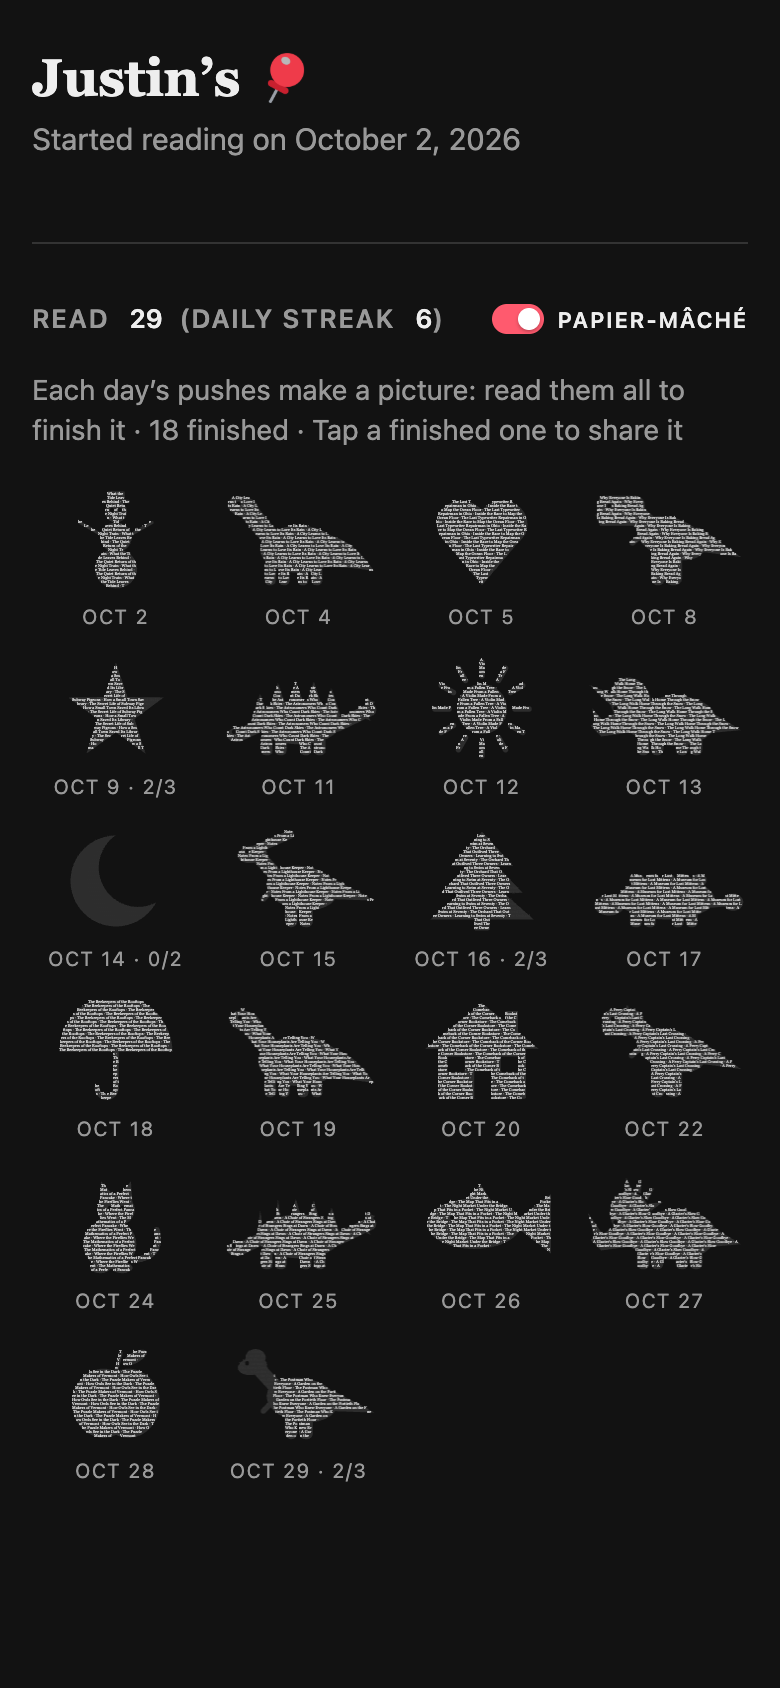
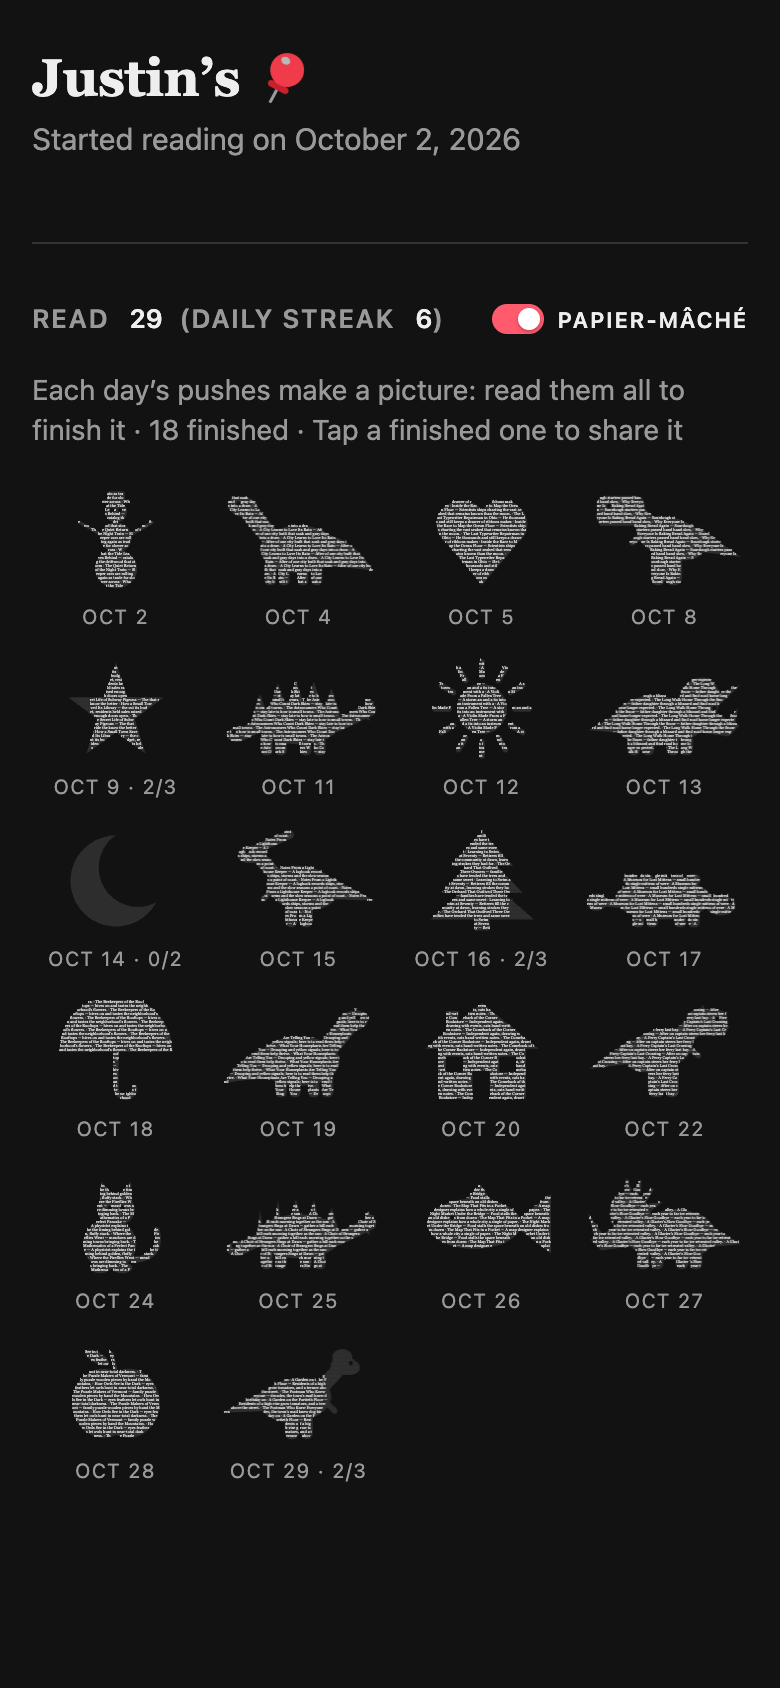
Daily pictures: text from each read article's title plus seeded abstract words, start and facing seeded by reader and day (unique per day and reader); pin indents a shape that starts at the left edge; docs show the snowman and a Brontosaurus

diff --git a/src/pushpin/cards.py b/src/pushpin/cards.py
@@ -610,7 +610,7 @@ function layout(w, h, words, flip, kind, fs) {
   const mask = mc.getImageData(0, 0, w, h).data, inside = (x, y) => mask[(y * w + x) * 4 + 3] > 127;
   const lh = Math.round(fs * 1.1);
   mc.font = fs + 'px Georgia, "Times New Roman", serif';
-  const text = words.join(' · ') + ' · ', widths = {};
+  const text = typeof words === 'string' ? words : words.join(' · ') + ' · ', widths = {};  // a day's text, or a list to join
   const width = ch => widths[ch] ??= mc.measureText(ch).width;
   const glyphs = []; let i = 0;
   for (let y = Math.round(lh / 2); y < h; y += lh) {
@@ -674,9 +674,9 @@ function draw(canvas, words, built, flip, animate, kind, delay) {
 // on a character grid, with spaces around it and a pin in the top left corner. It lines up in a
 // monospace font; in a chat's proportional one it leans and wobbles, which is part of the charm.
 const COLS = 32;
-function textDino(titles, kind) {
+function textDino(text, kind, flip) {
   const w = 400, h = 256, m = document.createElement('canvas'); m.width = w; m.height = h;
-  const mc = m.getContext('2d'); dino(mc, w, h, false, kind);
+  const mc = m.getContext('2d'); dino(mc, w, h, flip, kind);
   const a = mc.getImageData(0, 0, w, h).data, on = (x, y) => a[(y * w + x) * 4 + 3] > 127;
   let x0 = w, x1 = 0, y0 = h, y1 = 0;  // crop to the dinosaur
   for (let y = 0; y < h; y++) for (let x = 0; x < w; x++) if (on(x, y)) {
@@ -689,7 +689,7 @@ function textDino(titles, kind) {
       for (let x = Math.floor(x0 + c * cw); x < Math.min(x1 + 1, x0 + (c + 1) * cw); x++) { t++; if (on(x, y)) n++; }
     return t && n / t > 0.3;
   };
-  const letters = titles.join('·').replace(/\\s+/g, '') + '·';  // no spaces inside the body, so it has no holes
+  const letters = text.replace(/\\s+/g, '');  // no spaces inside the shape, so it has no holes
   const lines = []; let i = 0;
   for (let r = 0; r < rows; r++) {
     let line = '';
@@ -699,11 +699,12 @@ function textDino(titles, kind) {
   while (lines.length && !lines[0]) lines.shift();
   while (lines.length && !lines[lines.length - 1]) lines.pop();
   // the pin in the top left corner, on the dinosaur's top line: it takes about two columns
-  lines[0] = '📌' + (lines[0].startsWith('  ') ? lines[0].slice(2) : ' ' + lines[0]);
+  if (!lines[0].startsWith('  ')) for (let i = 0; i < lines.length; i++) lines[i] = '   ' + lines[i];  // no room: shift it all over
+  lines[0] = '📌' + lines[0].slice(2);
   return lines.join('\\n');
 }
 let sheet = null;
-function share(titles, kind) {
+function share(text_, kind, flip) {
   if (!sheet) {
     sheet = document.createElement('dialog'); sheet.className = 'sharecard';
     sheet.innerHTML = '<button type="button" class="x" aria-label="Close">×</button><pre></pre>'
@@ -712,7 +713,7 @@ function share(titles, kind) {
     sheet.addEventListener('click', ev => { if (ev.target === sheet) sheet.close(); });  // the backdrop
     document.body.append(sheet);
   }
-  const text = textDino(titles, kind), pre = sheet.querySelector('pre'), go = sheet.querySelector('.go'), copy = sheet.querySelector('.copy');
+  const text = textDino(text_, kind, flip), pre = sheet.querySelector('pre'), go = sheet.querySelector('.go'), copy = sheet.querySelector('.copy');
   pre.textContent = text; pre.setAttribute('aria-label', 'A ' + kind.name + ' drawn in text');
   go.hidden = !navigator.share;
   go.onclick = () => navigator.share({text}).catch(() => null);
@@ -722,11 +723,26 @@ function share(titles, kind) {
 }
 // ---- end share card ----
 const kindOf = herd(data.dataset.seed || '');
+// A day's text: every read title, each followed by some of its abstract's words (picked at
+// random, kept in order), starting at a random point, and which way the shape faces. The randomness
+// is seeded by the reader and the day, so a picture is the same each time it's drawn, no two days
+// match, and two readers who read the same articles the same day still get different pictures.
+function dayText(d) {
+  const r = rng((data.dataset.seed || 'demo') + ':' + d.day);
+  const flip = r() < 0.5;
+  if (!d.titles.length) return {text: '·', flip};
+  const parts = d.titles.map((t, i) => {
+    const kept = ((d.abstracts || [])[i] || '').split(/\\s+/).filter(w => w && r() < 0.55);
+    return kept.length ? t + ' — ' + kept.join(' ') : t;
+  });
+  const all = parts.join(' · ') + ' · ', at = Math.floor(r() * all.length);
+  return {text: all.slice(at) + all.slice(0, at), flip};
+}
 const MONTHS = ['Jan', 'Feb', 'Mar', 'Apr', 'May', 'Jun', 'Jul', 'Aug', 'Sep', 'Oct', 'Nov', 'Dec'];
 function build(animate) {
   box.innerHTML = '';
   days.forEach((d, k) => {  // one picture a day, oldest first, made of that day's read headlines
-    const kind = kindOf(k), done = d.sent > 0 && d.titles.length >= d.sent, built = d.sent ? Math.min(1, d.titles.length / d.sent) : 0;
+    const kind = kindOf(k), day = dayText(d), done = d.sent > 0 && d.titles.length >= d.sent, built = d.sent ? Math.min(1, d.titles.length / d.sent) : 0;
     const when = MONTHS[+d.day.slice(5, 7) - 1] + ' ' + +d.day.slice(8, 10);
     const fig = document.createElement('figure'), canvas = document.createElement('canvas'), cap = document.createElement('figcaption');
     canvas.setAttribute('role', 'img');
@@ -737,7 +753,7 @@ function build(animate) {
       const tap = document.createElement('button');
       tap.type = 'button'; tap.className = 'dino'; tap.title = kind.name + ' · ' + when;
       tap.setAttribute('aria-label', 'Share the ' + kind.name + ' for ' + when);
-      tap.append(canvas); tap.addEventListener('click', () => share(d.titles, kind));
+      tap.append(canvas); tap.addEventListener('click', () => share(day.text, kind, day.flip));
       fig.append(tap);
     } else {
       const still = document.createElement('div');  // not finished: nothing to share yet
@@ -745,7 +761,7 @@ function build(animate) {
       still.append(canvas); fig.append(still);
     }
     fig.append(cap); box.append(fig);
-    draw(canvas, d.titles.length ? d.titles : ['·'], built, k % 2 === 1, animate, kind, animate ? Math.min(k, 40) * 45 : 0);
+    draw(canvas, day.text, built, day.flip, animate, kind, animate ? Math.min(k, 40) * 45 : 0);
   });
 }
 function show(animate) {
@@ -780,10 +796,11 @@ def papier_days(read: list[dict]) -> list[dict]:
     """Days from the reads alone, when the pushes sent aren't known: every day with reads, finished."""
     out: dict[str, dict] = {}
     for a in sorted(read, key=lambda a: a["read_at"] or ""):
-        d = out.setdefault(a["read_at"][:10], {"day": a["read_at"][:10], "sent": 0, "read": 0, "titles": []})
+        d = out.setdefault(a["read_at"][:10], {"day": a["read_at"][:10], "sent": 0, "read": 0, "titles": [], "abstracts": []})
         d["sent"] += 1
         d["read"] += 1
         d["titles"].append(a["title"] or "Untitled")
+        d["abstracts"].append(a.get("abstract") or "")
     return list(out.values())
 
 
@@ -795,7 +812,8 @@ def papier(read: list[dict], days: list[dict] | None = None, seed: str = "") -> 
     if not read:
         return "", "", ""
     days = days if days is not None else papier_days(read)
-    data = json.dumps([{"day": d["day"], "sent": d["sent"], "titles": d["titles"]} for d in days]).replace("</", "<\\/")
+    data = json.dumps([{"day": d["day"], "sent": d["sent"], "titles": d["titles"], "abstracts": d.get("abstracts") or []}
+                       for d in days]).replace("</", "<\\/")
     done = sum(1 for d in days if d["sent"] and d["read"] >= d["sent"])
     switch = ('<button type="button" class="pm" id="papier-on" aria-pressed="false">'
               '<span class="track"><span class="knob"></span></span>Papier-mâché</button>')
@@ -826,13 +844,48 @@ def demo_page() -> str:
     # some days two, some days none, and the last six days in a row: Read 29, Daily streak 6
     days = [2, 2, 4, 5, 5, 8, 9, 9, 11, 12, 13, 15, 16, 16, 17, 18, 19, 20, 22,
             24, 24, 25, 26, 26, 27, 28, 28, 29, 29]
-    read = [{"news_id": f"DEMO{i}", "title": t, "url": "https://www.nytimes.com", "section": None,
-             "read_at": f"2026-10-{d:02d}T{9 + i % 2 * 9}:00"} for i, (t, d) in enumerate(zip(DEMO_TITLES, days, strict=True))]
+    read = [{"news_id": f"DEMO{i}", "title": t, "abstract": ab, "url": "https://www.nytimes.com", "section": None,
+             "read_at": f"2026-10-{d:02d}T{9 + i % 2 * 9}:00"}
+            for i, (t, ab, d) in enumerate(zip(DEMO_TITLES, DEMO_ABSTRACTS, days, strict=True))]
     by_day = {d["day"]: d for d in papier_days(read)}
     for day, missed in DEMO_UNREAD.items():  # pushes sent but not read: those days aren't finished
-        by_day.setdefault(day, {"day": day, "sent": 0, "read": 0, "titles": []})["sent"] += missed
+        by_day.setdefault(day, {"day": day, "sent": 0, "read": 0, "titles": [], "abstracts": []})["sent"] += missed
     return profile_page({"name": "Justin", "history_public": 1}, read, owner=False, today=date(2026, 10, 29),
                         days=[by_day[k] for k in sorted(by_day)])
+
+
+# made up, like the titles: one line each, in the same order
+DEMO_ABSTRACTS = [
+    "Sleeper cars are rolling again as travelers trade airports for a slower way across the country.",
+    "Beachcombers catalog the shells, glass and driftwood that every storm brings ashore.",
+    "After years of floods, one city built parks that soak up storms and turned gray days into a draw.",
+    "He has fixed thousands of machines and still keeps a drawer of ribbons nobody makes anymore.",
+    "Scientists and sonar ships are charting the vast seabed that remains less known than the moon.",
+    "Sourdough starters are passed hand to hand as home bakers rediscover a slow, patient craft.",
+    "The birds that ride the trains know the schedules better than many commuters do.",
+    "When the county cut its budget, residents held bake sales and raised enough to keep the doors open.",
+    "Volunteers stay up late to measure how much light is stealing the stars from small towns.",
+    "A storm toppled an old maple, and a luthier turned its wood into an instrument with a warm voice.",
+    "A father and daughter trek through a blizzard and find the road home longer and kinder than expected.",
+    "A keeper's logbook records ships, storms and the slow seasons on a rocky point of the coast.",
+    "Generations of families have tended the same trees and harvested the same sweet apples.",
+    "Retirees fill the community pool at dawn, learning strokes they never had time for.",
+    "A small museum displays hundreds of single mittens and the stories of how they were lost.",
+    "City beekeepers keep hives on rooftops, and their honey tastes of the neighborhood's flowers.",
+    "Drooping leaves and yellow tips are signals; here is how to read them and help your plants thrive.",
+    "Independent bookshops are opening again, drawing readers with events, cats and hand-written notes.",
+    "After forty years on the water, a captain steers her ferry one last time across the bay.",
+    "A physicist explains the batter, the heat and the timing behind a golden, fluffy stack.",
+    "Light pollution and lost meadows are dimming summer nights, but some towns are bringing them back.",
+    "Strangers gather on a hill each morning to sing together as the sun comes up.",
+    "A folding map designer explains how to fit a whole city onto a single sheet of paper.",
+    "Food stalls light up the space beneath an old bridge, serving dishes from a dozen countries.",
+    "Researchers return each year to measure how far the ice has retreated up the valley.",
+    "A family of puzzle makers cuts wooden pieces by hand in a barn in the Green Mountains.",
+    "Huge eyes and sensitive feathers let owls hunt in near-total darkness.",
+    "Residents of a high-rise grow tomatoes, herbs and flowers on a terrace high above the street.",
+    "For decades, the town's mail carrier knew every name, dog and birthday on his route.",
+]
 
 
 # demo pushes left unread, by day: two days with some read, one with none, and today so far

diff --git a/tests/test_notifier.py b/tests/test_notifier.py
@@ -535,7 +535,7 @@ def test_papier_mache_only_with_a_visible_read_list():
     assert panel.index('class="list"') < panel.index('id="papier"')  # one panel, no fold
     assert "<details" not in own and 'class="plus"' not in own
     data = re.search(r'id="papier-data"[^>]*>(.*?)</script>', own).group(1)
-    assert data.startswith('[{"day": "2026-11-10", "sent": 1, "titles": ["T0<\\/script>"]}') and "</script>\"" not in data  # oldest first, can't close the tag
+    assert data.startswith('[{"day": "2026-11-10", "sent": 1, "titles": ["T0<\\/script>"], "abstracts": [""]}') and "</script>\"" not in data  # oldest first, can't close the tag
     assert 'id="papier-on"' not in cards.profile_page(reader, read, owner=False)  # private list: no dinosaurs
     assert 'id="papier-on"' in cards.profile_page({**reader, "history_public": 1}, read, owner=False)
     assert 'id="papier-on"' not in cards.profile_page(reader, [], owner=True)
@@ -555,14 +555,14 @@ def test_a_days_picture_is_finished_when_all_its_pushes_are_read(setup):
         get(f"/p/{first}")
         post(f"/read/{first}")
         rid = store._rows("SELECT reader_id FROM readers")[0]["reader_id"]
-        title = store.push(first)["title"]
+        title, abstract = store.push(first)["title"], store.push(first)["abstract"]
         day = store._rows("SELECT sent_at FROM scores WHERE push_id = :p", p=first)[0]["sent_at"][:10]  # when it was sent
-        assert store.days(rid) == [{"day": day, "sent": 2, "read": 1, "titles": [title]}]
+        assert store.days(rid) == [{"day": day, "sent": 2, "read": 1, "titles": [title], "abstracts": [abstract]}]
         assert "· 0 finished ·" in get("/me")  # one of the day's two pushes read
         post(f"/read/{second}")
         assert store.days(rid)[0]["read"] == 2 and "· 1 finished ·" in get("/me")
         post(f"/remove/{store.push(second)['news_id']}")  # deleted: still read, but its title isn't shown
-        assert store.days(rid) == [{"day": day, "sent": 2, "read": 2, "titles": [title]}]
+        assert store.days(rid) == [{"day": day, "sent": 2, "read": 2, "titles": [title], "abstracts": [abstract]}]
         assert store.days(None) == []
         stray = store.new_reader(None)  # no first push time: only what they tapped counts
         store.interact(first, stray, "open")
@@ -580,7 +580,9 @@ def test_demo_page_shows_dinosaurs_and_stores_nothing(setup):
         server.shutdown()
     assert 'id="papier-on"' in page and "18 finished" in page and "Justin’s" in page and "Crème" not in page
     data = json.loads(re.search(r'id="papier-data"[^>]*>(.*?)</script>', page).group(1))
-    assert len(data) == 22 and {"day": "2026-10-14", "sent": 2, "titles": []} in data  # a day with nothing read
+    assert len(data) == 22 and {"day": "2026-10-14", "sent": 2, "titles": [], "abstracts": []} in data  # a day with nothing read
+    assert all(len(d["abstracts"]) == len(d["titles"]) and all(d["abstracts"]) for d in data)  # titles and abstracts
+    assert "function dayText(d)" in page and "rng((data.dataset.seed || 'demo') + ':' + d.day)" in page  # seeded per reader and day
     assert store.reader_count() == 0 and db("SELECT COUNT(*) AS n FROM interactions")["n"].item() == 0
 
 

diff --git a/src/pushpin/store.py b/src/pushpin/store.py
@@ -379,28 +379,30 @@ class Store:
 
     def days(self, reader_id: str | None) -> list[dict]:
         """Each day this reader was sent pushes, oldest first: day (YYYY-MM-DD, local), sent (how
-        many pushes they got), read (how many of those they tapped Read on, on any day since) and
-        titles (the read ones they haven't deleted from their profile, in send order). Reading all
-        of a day's pushes finishes that day's picture on the profile."""
+        many pushes they got), read (how many of those they tapped Read on, on any day since), and
+        titles and abstracts of the read ones they haven't deleted from their profile, in send
+        order. Reading all of a day's pushes finishes that day's picture on the profile."""
         if not reader_id or not self._has_scores():
             return []
         did = lambda kind: ("EXISTS (SELECT 1 FROM interactions i WHERE i.push_id = s.push_id AND i.reader_id = :r"
                             + (f" AND i.kind = '{kind}')" if kind else ")"))
         # the pushes `labeled` counts as theirs, plus any they opened (a reader set up without a
         # first push time still gets the ones they tapped)
-        rows = self._rows(f"""SELECT SUBSTR(s.sent_at, 1, 10) AS day, s.push_id, s.title, {did("read")} AS read, {KEPT} AS kept
-            FROM scores s JOIN readers r ON r.reader_id = :r
+        rows = self._rows(f"""SELECT SUBSTR(s.sent_at, 1, 10) AS day, s.push_id, s.title, a.abstract,
+                {did("read")} AS read, {KEPT} AS kept
+            FROM scores s JOIN readers r ON r.reader_id = :r LEFT JOIN articles a ON a.news_id = s.news_id
             WHERE s.sent AND ((s.for_reader IS NULL AND r.apple_sub IS NULL AND s.sent_ts >= r.first_push_ts)
                               OR s.for_reader = r.reader_id OR {did(None)})
             ORDER BY s.sent_ts, s.push_id""", r=reader_id)
         out: dict[str, dict] = {}
         for row in rows:
-            d = out.setdefault(row["day"], {"day": row["day"], "sent": 0, "read": 0, "titles": []})
+            d = out.setdefault(row["day"], {"day": row["day"], "sent": 0, "read": 0, "titles": [], "abstracts": []})
             d["sent"] += 1
             if row["read"]:
                 d["read"] += 1
                 if row["kept"]:
                     d["titles"].append(row["title"] or "Untitled")
+                    d["abstracts"].append(row["abstract"] or "")
         return list(out.values())
 
     def remove(self, reader_id: str, news_id: str) -> bool:

diff --git a/docs/demo-screens.md b/docs/demo-screens.md
@@ -41,70 +41,73 @@ It opens on a title card and goes to the profile when tapped.
 <img src="screens/demo-splash.png" width="300" alt="Demo title card: Justin's, Read 29, Daily streak 6, Tap to continue">
 <img src="screens/demo-profile.png" width="300" alt="Demo profile: Read 29, a grid of small papier-mâché pictures, one a day: a snowman, dinosaurs, a heart, a star, a moon, a tree and more, a few unfinished">
 
-Each day's pushes make one small papier-mâché picture out of the headlines read that day. The
-pictures are common symbols (snowman, heart, star, sun, moon, pine tree, umbrella, house, cat,
-fish, apple, cloud, lightning bolt, coffee cup, flower, music note, balloon), taking turns with the
-dinosaurs. A picture fills in from one side as the day's pushes are read and is finished only when
-all of them are. An unfinished one is pencilled in, with how many were read under its date (Oct 9
-· 2/3); a day with nothing read is a blank outline (Oct 14 · 0/2). The demo has 22 days, 18 of them
-finished, and they all fit on one screen. A faint silhouette sits under the words so each shape
-reads at this size.
+Each day's pushes make one small papier-mâché picture out of the articles read that day: their
+titles and some of their abstracts' words. The pictures are common symbols (snowman, heart, star,
+sun, moon, pine tree, umbrella, house, cat, fish, apple, cloud, lightning bolt, coffee cup,
+flower, music note, balloon), taking turns with the dinosaurs. A picture fills in from one side as
+the day's pushes are read and is finished only when all of them are. An unfinished one is
+pencilled in, with how many were read under its date (Oct 9 · 2/3); a day with nothing read is a
+blank outline (Oct 14 · 0/2). The demo has 22 days, 18 of them finished, and they all fit on one
+screen. A faint silhouette sits under the words so each shape reads at this size.
 
 ## 4. Sharing a picture
 
-Tapping a finished picture opens it as text, ready to paste into any chat: the shape drawn with the
-day's headlines' letters on a 32-character grid, with plain spaces around it and 📌 in the top left
-corner, on the top line. The spaces between words are dropped inside the shape so it has no holes.
-**Share** opens the phone's share sheet with the text, and **Copy** copies it. Browsers without a
-share sheet only show Copy. Unfinished pictures can't be shared yet.
+Tapping a finished picture opens it as text, ready to paste into any chat: the shape spelled out
+on a 32-character grid, with plain spaces around it and 📌 in the top left corner, on the top line.
+The letters come from that day's read articles: every title, each followed by some of its
+abstract's words (a random selection, kept in order). The spaces between words are dropped inside
+the shape so it has no holes. **Share** opens the phone's share sheet with the text, and **Copy**
+copies it. Browsers without a share sheet only show Copy. Unfinished pictures can't be shared yet.
+
+Each picture is unique. A generator seeded with the reader and the day picks which abstract words
+are kept, where the text starts and which way the shape faces, and each reader has their own order
+of shapes. Different days get different pictures, and so do two readers who read the same
+articles on the same day. A repeat isn't strictly impossible, but with billions of variants it's
+vanishingly unlikely. On the demo all 18 finished days are different, and two test readers with
+identical reads differed on every day.
 
 It lines up in a monospace font. In a chat's proportional font the rows shift a little, and that's
 fine.
 
 <img src="screens/share-sheet.png" width="300" alt="Share sheet on the demo profile: a snowman spelled out in the letters of the day's headlines, with Share and Copy buttons">
 
-What two of the demo pictures share as, the snowman and the heart:
+What the demo's first two pictures share as, the snowman and a Brontosaurus:
 
 ```
-📌          WhattheT
-            ideLeave
-          sBehind·TheQ
-           uietReturn
-           oftheNight
-            Train·Wh
-at           theTid           eL
- eave      sBehind·Th      eQui
-     etReturnoftheNigh tTra
-        in·WhattheTideLe
-         avesBehind·The
-          QuietReturno
-           ftheNightT
-         rain·WhattheTi
-        deLeavesBehind·T
-       heQuietReturnofthe
-       NightTrain·Whatthe
-       TideLeavesBehind·T
-        heQuietReturnoft
-         heNightTrain·W
-           hattheTid
+📌          ainastra
+            deforslo
+          weracross·Wh
+           attheTideL
+           eavesBehin
+            d—catalo
+gt           hedrif           tw
+ oodt      hatstorm·T      heQu
+     ietReturnoftheNig htTr
+        ain—Sleepercarsa
+         rerollingagain
+          astradeforsl
+           oweracross
+         ·WhattheTideLe
+        avesBehind—catal
+       ogthedriftwoodthat
+       storm·TheQuietRetu
+       rnoftheNightTrain—
+        Sleepercarsarero
+         llingagainastr
+           adeforslo
 ```
 
 ```
-📌  TheLastTyp    ewriterRep
-  airmaninOhio·InsidetheRaceto
-MaptheOceanFloor·TheLastTypewrit
-erRepairmaninOhio·InsidetheRacet
-oMaptheOceanFloor·TheLastTypewri
-terRepairmaninOhio·InsidetheRace
- toMaptheOceanFloor·TheLastType
-   writerRepairmaninOhio·Insi
-     detheRacetoMaptheOcean
-      Floor·TheLastTypewri
-        terRepairmaninOh
-          io·Insidethe
-           RacetoMapt
-             heOcea
-               nF
+📌 thatso
+   akandgr
+      aydays
+        intoadraw.·ACity
+         LearnstoLoveItsRain
+          —Afterofonecitybuiltt
+          hatsoakandgraydaysintoa
+           draw.·ACityLearnstoLoveI
+           tsRain —After
+           ofonec itybui
 ```
 
 ## Before the first push: the welcome page

diff --git a/README.md b/README.md
@@ -36,13 +36,12 @@ Details: [docs/model.md](docs/model.md) and [docs/analysis.md](docs/analysis.md)
 
 The notifier scores live NYT RSS articles and pushes to phones through [ntfy](https://ntfy.sh)
 or the iOS app. Readers choose a volume: light (2 a day: morning, night), medium (4) or heavy (8).
-Tapping a push opens the reader's profile. Each day's pushes make a small papier-mâché picture
-(a snowman, a heart, a star, a dinosaur...) out of the headlines read, and it's finished only when
-the reader has read all of that day's pushes. Tapping a finished one turns it into text to share in
-any chat, spelled out in the headlines' letters with 📌 in the top left corner. Every
-push and tap is logged as labeled data that MIND lacks. The plan is to retrain the model each week
-on these logs. It can also deploy to GCP for about
-$1/month.
+Tapping a push opens the reader's profile. Each day's pushes make a small papier-mâché picture (a
+snowman, a heart, a star, a dinosaur...) out of the titles and abstracts of the articles read, and
+it's finished only when the reader has read all of that day's pushes. Tapping a finished one turns
+it into text to share in any chat, with 📌 in the top left corner. Each day's picture is unique to
+that day and reader. Every push and tap is logged as labeled data that MIND lacks. The plan is to
+retrain the model each week on these logs. It can also deploy to GCP for about $1/month.
 
 ## Proposed A/B test
 
